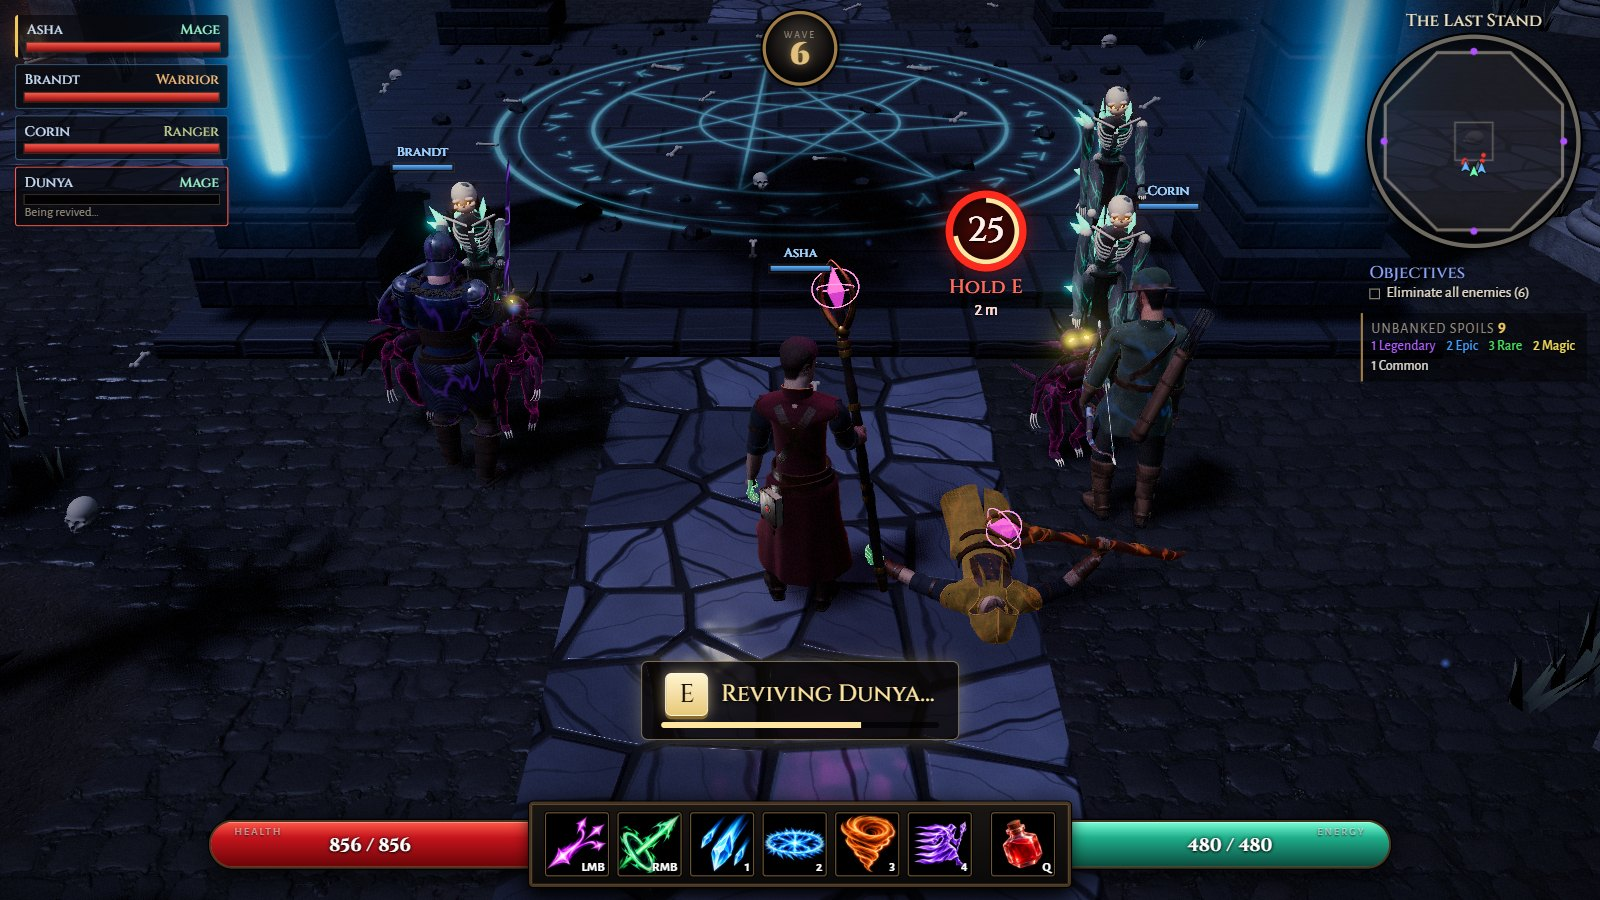
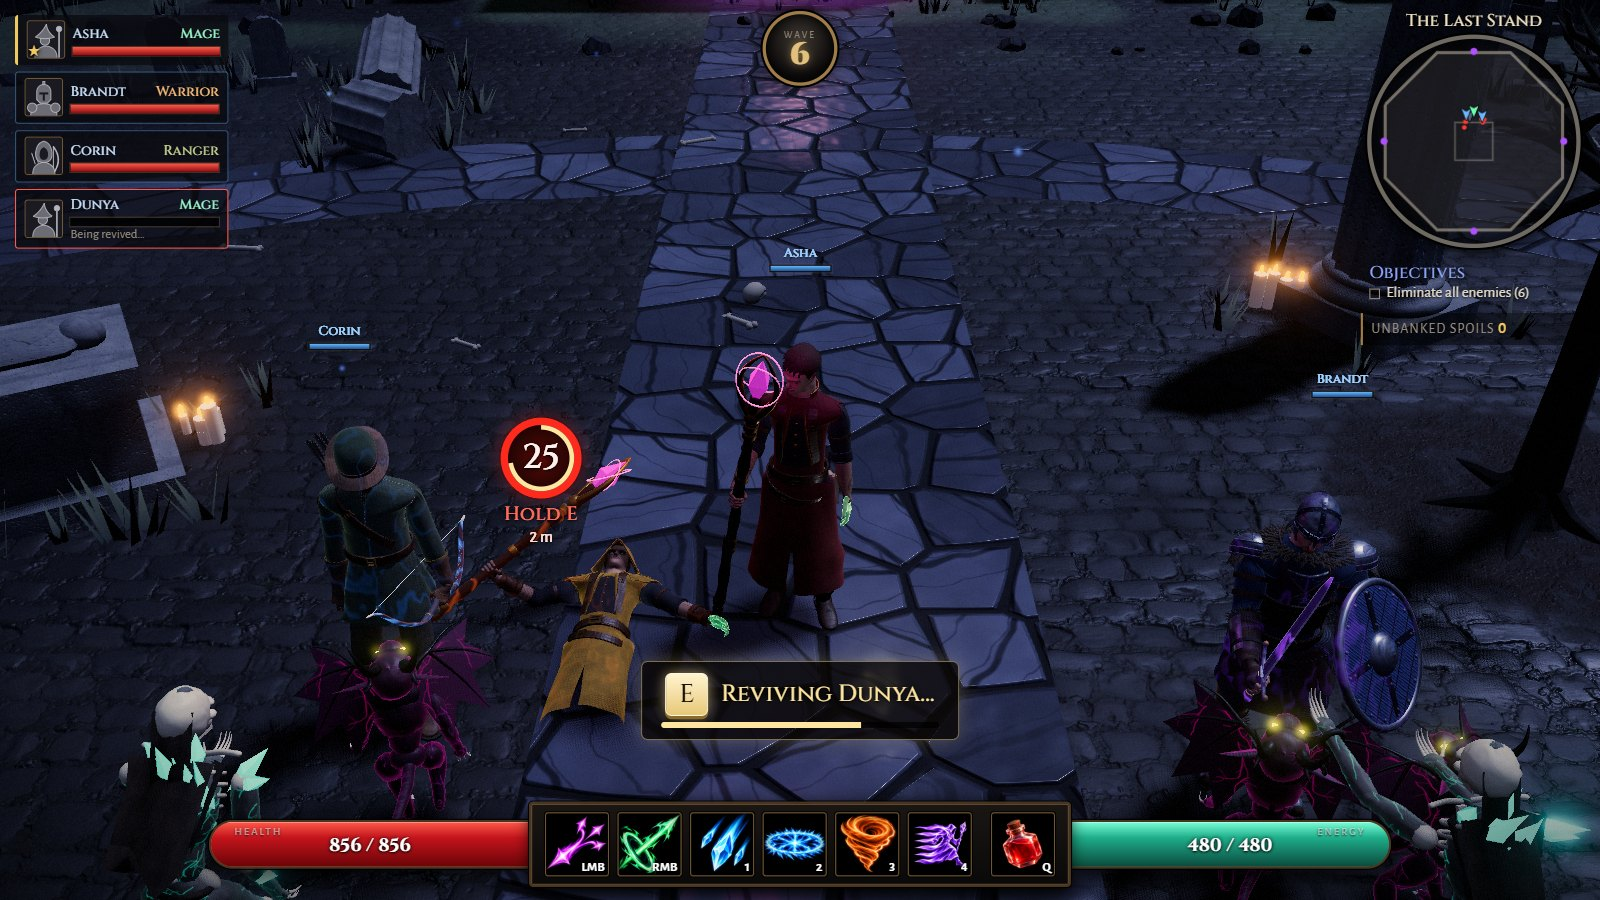
Party cards: a class's grey outline where no portrait is chosen
A player with no portrait had a card with no picture, laid out otherwise than the cards beside it (from the owner:
"lets show a generic svg or procedural outline in greyscale, unique per class... this way all cards will always have
the same format"). Each class now has an outline (src/ui/classOutlines.ts: a grey bust drawn inline in SVG, the
mage's hat and staff, the warrior's helm and pauldrons, the ranger's hood and bow; a plain bust for a class with
none), shown in the party's cards, the room's list and the picker's summary wherever a portrait would be. Nothing is
downloaded for it, and a portrait that fails to load gives way to it.

- `lab portraits` holds a cleared portrait to the outline and the classes' outlines apart.
- The README's party and downed pictures are taken again (`lab readme --shots party,down`).

diff --git a/src/ui/classOutlines.ts b/src/ui/classOutlines.ts
@@ -1,0 +1,43 @@
+// A class's outline: a small grey bust drawn in SVG, shown in a party card or list where its player has chosen no
+// portrait, so every card has a picture and the same layout. One a class, told apart by its shape alone (the mage's
+// hat and staff, the warrior's helm and pauldrons, the ranger's hood and bow); a class with none drawn gets a plain
+// bust. Inline, so it's nothing to download.
+
+const GROUND = '#1b1a21';
+const BODY = '#6c6c74';
+const EDGE = '#b4b4bc';
+
+/** a bust's shoulders, `half` wide each side of the middle */
+const shoulders = (half: number): string =>
+  `<path d="M${18 - half} 36.5C${18 - half} 28 ${24 - half} 24.5 18 24.5S${18 + half} 28 ${18 + half} 36.5Z"/>`;
+
+const OUTLINES: Record<string, string> = {
+  // a pointed hat over a narrow face, a staff with its orb at his side
+  mage: `${shoulders(11)}<circle cx="17" cy="19" r="4.6"/>`
+    + '<path d="M18.5 2.5C19 8 21.5 12 26.5 15.5C21 17.6 13 17.6 7.5 15.5C12.5 12 16 8 18.5 2.5Z"/>'
+    + `<path d="M31 11V36" fill="none" stroke-width="1.6"/><circle cx="31" cy="7.5" r="2.6" fill="${EDGE}"/>`,
+  // a crested helm with a T of a visor, broad pauldrons
+  warrior: `${shoulders(13)}<circle cx="6.5" cy="28.5" r="4.6"/><circle cx="29.5" cy="28.5" r="4.6"/>`
+    + '<path d="M17 6V2.5H19V6Z"/>'
+    + '<path d="M11 20.5V13C11 8.5 14 5.5 18 5.5S25 8.5 25 13V20.5L21.5 24H14.5Z"/>'
+    + `<path d="M13.6 13.2H22.4V15.4H19V21.5H17V15.4H13.6Z" fill="${GROUND}" stroke="none"/>`,
+  // a hood drawn to a point round a shadowed face, a bow behind one shoulder and arrows over the other
+  ranger: '<path d="M27.5 9C34 17 34 27 27.5 35" fill="none" stroke-width="1.6"/>'
+    + '<path d="M27.5 9V35M9.5 26L6 15.5M12.5 25L10 14.5" fill="none" stroke-width="1"/>'
+    + `${shoulders(11)}`
+    + '<path d="M18 3.5C12 5 9.5 11 10 18C10.4 22.5 13.5 24.5 18 24.5S25.6 22.5 26 18C26.5 11 24 5 18 3.5Z"/>'
+    + `<path d="M18 9.5C14.8 10.5 13.6 14 13.8 17.5C14 20.5 15.8 22 18 22S22 20.5 22.2 17.5C22.4 14 21.2 10.5 18 9.5Z"`
+    + ` fill="${GROUND}" stroke="none"/>`,
+};
+
+/** a class with no outline of its own: a head and shoulders */
+const PLAIN = `${shoulders(11)}<circle cx="18" cy="15" r="6.5"/>`;
+
+/** `classId`'s outline as an SVG the size of a party portrait (`.party-portrait`), in greys. */
+export function classOutline(classId: string): string {
+  const drawn = OUTLINES[classId] ?? PLAIN;
+  return '<svg class="party-portrait outline" viewBox="0 0 36 36" width="36" height="36" aria-hidden="true">'
+    + `<rect width="36" height="36" fill="${GROUND}"/>`
+    + `<g fill="${BODY}" stroke="${EDGE}" stroke-width=".9" stroke-linejoin="round" stroke-linecap="round">${drawn}</g>`
+    + '</svg>';
+}

diff --git a/src/ui/portraitPicker.ts b/src/ui/portraitPicker.ts
@@ -1,27 +1,31 @@
-// Optional painted portraits in the co-op dialog and the two party lists, never over heroes in the world.
+// Optional painted portraits in the co-op dialog and the two party lists, never over heroes in the world. With none
+// chosen a player's picture is their class's grey outline (classOutlines.ts), so every card is laid out alike.
 import { G } from '../state';
 import { portraitIds, portraitOf, savePortrait, PORTRAIT_COLORS } from '../net/portraits';
 import { portraitUrl } from './portraitArt';
+import { classOutline } from './classOutlines';
 import { sfx } from '../core/audio';
 import type { Player } from '../entities/player';
 
-const shown = new WeakMap<HTMLElement, string | null>();
+const shown = new WeakMap<HTMLElement, string>();
 
-/** Decorative party-list picture: names remain text and the None choice creates no image request. */
+/** Decorative party-list picture: names remain text, and the None choice shows the class's outline, drawn inline, so
+ *  it creates no image request. */
 export function portraitHtml(player: Player): string {
   const id = portraitOf(player), url = id ? portraitUrl(id) : undefined;
-  return url ? `<img class="party-portrait" src="${url}" width="36" height="36" alt="" decoding="async">` : '';
+  return url ? `<img class="party-portrait" src="${url}" width="36" height="36" alt="" decoding="async">` : classOutline(player.cls.id);
 }
 
 /** Refresh a fight's picture only when its choice changes, not on each HUD frame. */
 export function syncPortrait(container: HTMLElement, player: Player): void {
-  const id = portraitOf(player);
-  if (shown.has(container) && shown.get(container) === id) return;
+  const id = `${player.cls.id}:${portraitOf(player) ?? ''}`;
+  if (shown.get(container) === id) return;
   shown.set(container, id);
   container.innerHTML = portraitHtml(player);
-  container.hidden = !container.firstElementChild;
+  container.hidden = false;
+  // (a picture that can't be had, offline say, gives way to the outline)
   const image = container.querySelector('img');
-  if (image) image.onerror = () => { container.hidden = true; };
+  if (image) image.onerror = () => { container.innerHTML = classOutline(player.cls.id); };
 }
 
 /** A closed picker contains no unchosen pictures; its current class is expanded on demand. */

diff --git a/tools/lab/page/portraits.ts b/tools/lab/page/portraits.ts
@@ -7,6 +7,8 @@ import { role } from '../../../src/net/role';
 import { renderCoop, updateCoopHud } from '../../../src/ui/coop';
 import { portraitIds, portraitOf, savePortrait, receivePortrait } from '../../../src/net/portraits';
 import { portraitUrl } from '../../../src/ui/portraitArt';
+import { classOutline } from '../../../src/ui/classOutlines';
+import { CLASS_IDS } from '../../../src/data/classes/index';
 import { portraitHtml, syncPortrait } from '../../../src/ui/portraitPicker';
 import type { Player } from '../../../src/entities/player';
 
@@ -68,11 +70,15 @@ export async function portraits(lab: Lab, options: PortraitOptions): Promise<Rep
   check(listPicture.querySelectorAll('img').length === 1, 'partner picture did not render');
   receivePortrait(partner, null);
   syncPortrait(listPicture, partner);
-  check(listPicture.hidden && !listPicture.querySelector('img'), 'cleared portrait still made an image');
+  check(!listPicture.querySelector('img'), 'cleared portrait still made an image');
+  check(!listPicture.hidden && Boolean(listPicture.querySelector('svg.party-portrait.outline')),
+    'a player with no portrait showed no class outline');
+  const outlines = CLASS_IDS.map((id) => classOutline(id));
+  check(new Set(outlines).size === CLASS_IDS.length, 'two classes share an outline');
   await lab.clickOn(element('#coop .portrait-picker summary'));
   await realWait(0);
   await lab.clickOn(element('#coop .portrait-none[aria-label="No portrait"]'));
-  check(portraitOf(G.player) === null && portraitHtml(G.player) === '', 'None retained a portrait image');
+  check(portraitOf(G.player) === null && !portraitHtml(G.player).includes('<img'), 'None retained a portrait image');
   check(!document.querySelector('#coop summary img'), 'None retained a preview image');
   const previousRole = role.current;
   const life = G.player.life;

diff --git a/src/ui/AGENTS.md b/src/ui/AGENTS.md
@@ -112,7 +112,7 @@ The PWA's worker and caches are `scripts/AGENTS.md`; the skill icons' pictures `
   - The privacy page is `public/privacy.html`, linked from the bar.
   - Check with `npm run lab -- cloud`.
 
-- Optional party portraits (#396): `portraitPicker.ts`, `portraitArt.ts`, `portraits/`. The closed picker makes no unchosen image requests; opening loads only the current class’s enabled male choices. Selected pictures appear only in lobby/fight party lists, never name tags or chat. None is the default. HUD images refresh only when the ID changes. Each class’s preference is independent of save slots.
+- Optional party portraits (#396): `portraitPicker.ts`, `portraitArt.ts`, `portraits/`. The closed picker makes no unchosen image requests; opening loads only the current class’s enabled male choices. Selected pictures appear only in lobby/fight party lists, never name tags or chat. None is the default, and shows the class's outline in its place (`classOutlines.ts`: a grey bust drawn inline in SVG, one a class, a plain one for a class with none drawn), so every card and list row is laid out alike whoever chose a portrait (from the owner: "this way all cards will always have the same format"); a new class gets an outline there. HUD images refresh only when the ID changes. Each class’s preference is independent of save slots.
 
 - The local player's co-op card is prepended above partners, in addition to appearing first in the room list. It has a plain 3px golden border on the left only and no You prefix. Party cards put the player name left and the class right on one line, in the class's Hero Selection accent. Only the host (slot 0) has a small gold star over the bottom-left of their portrait, with an accessible Host label; no extra text row changes the card layout. Portraits, health and status keep their existing update path. Leaving co-op clears all cards, including the self card; short touch screens use compact cards so four players fit.
 

diff --git a/tools/lab/AGENTS.md b/tools/lab/AGENTS.md
@@ -405,4 +405,4 @@ lists Chrome's layers at each picture, and where the sides' differ.
 
 - `guard`: #399, attacks while blocking in third person and through the eyes, a damage control during the exposed swing, immediate return/release/failure cases, independent shield and attack touch fingers. `--canary` leaves a shield raised during a swing and must detect it.
 
-- `portraits`: optional portrait requests and the real co-op picker; no downloads before use, current class only, selection, peer picture rendering and clearing. `--canary` requests another class and must detect it.
+- `portraits`: optional portrait requests and the real co-op picker; no downloads before use, current class only, selection, peer picture rendering and clearing, a class's outline shown with none chosen, no two classes' alike (run it with `--panels`: the village's lobby hides the party cards it pictures). `--canary` requests another class and must detect it.
